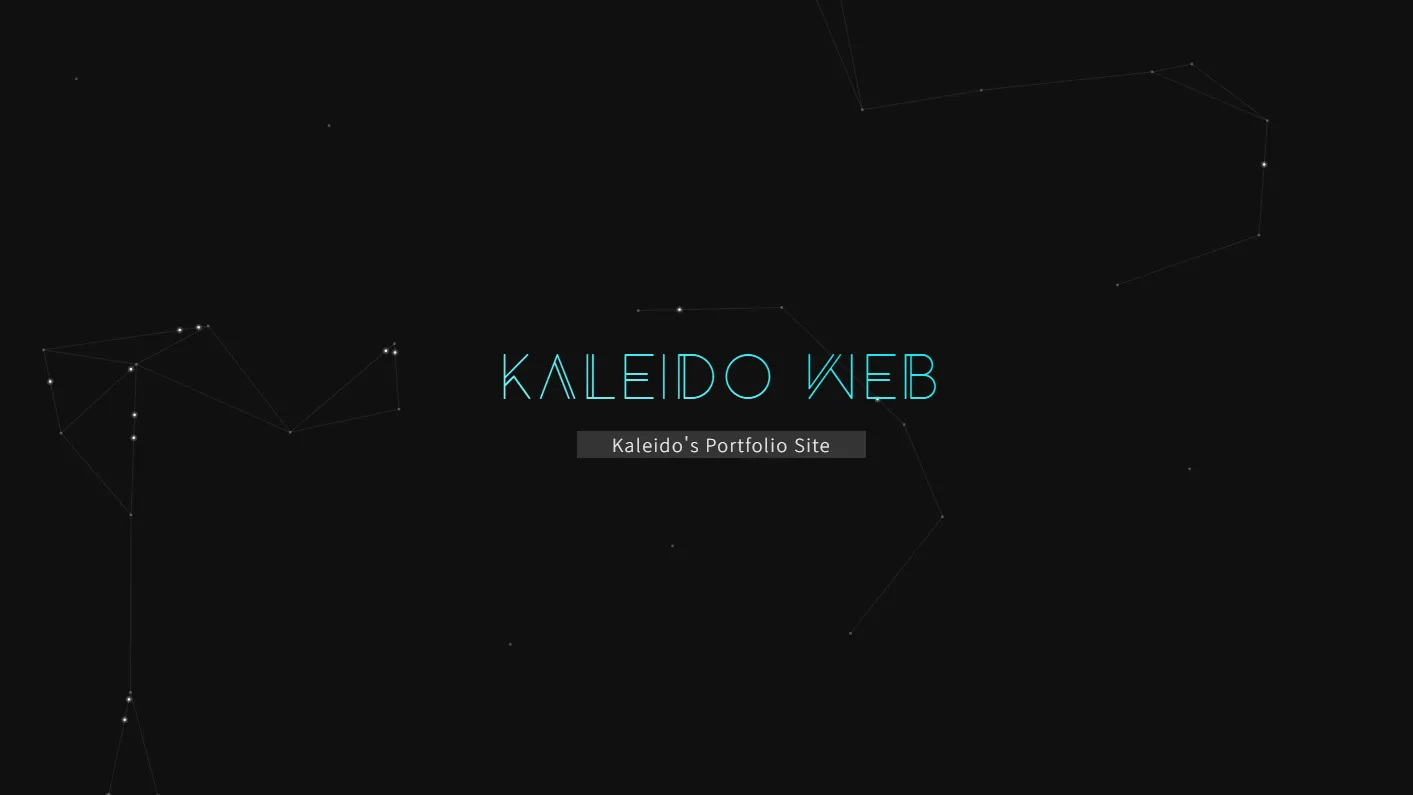
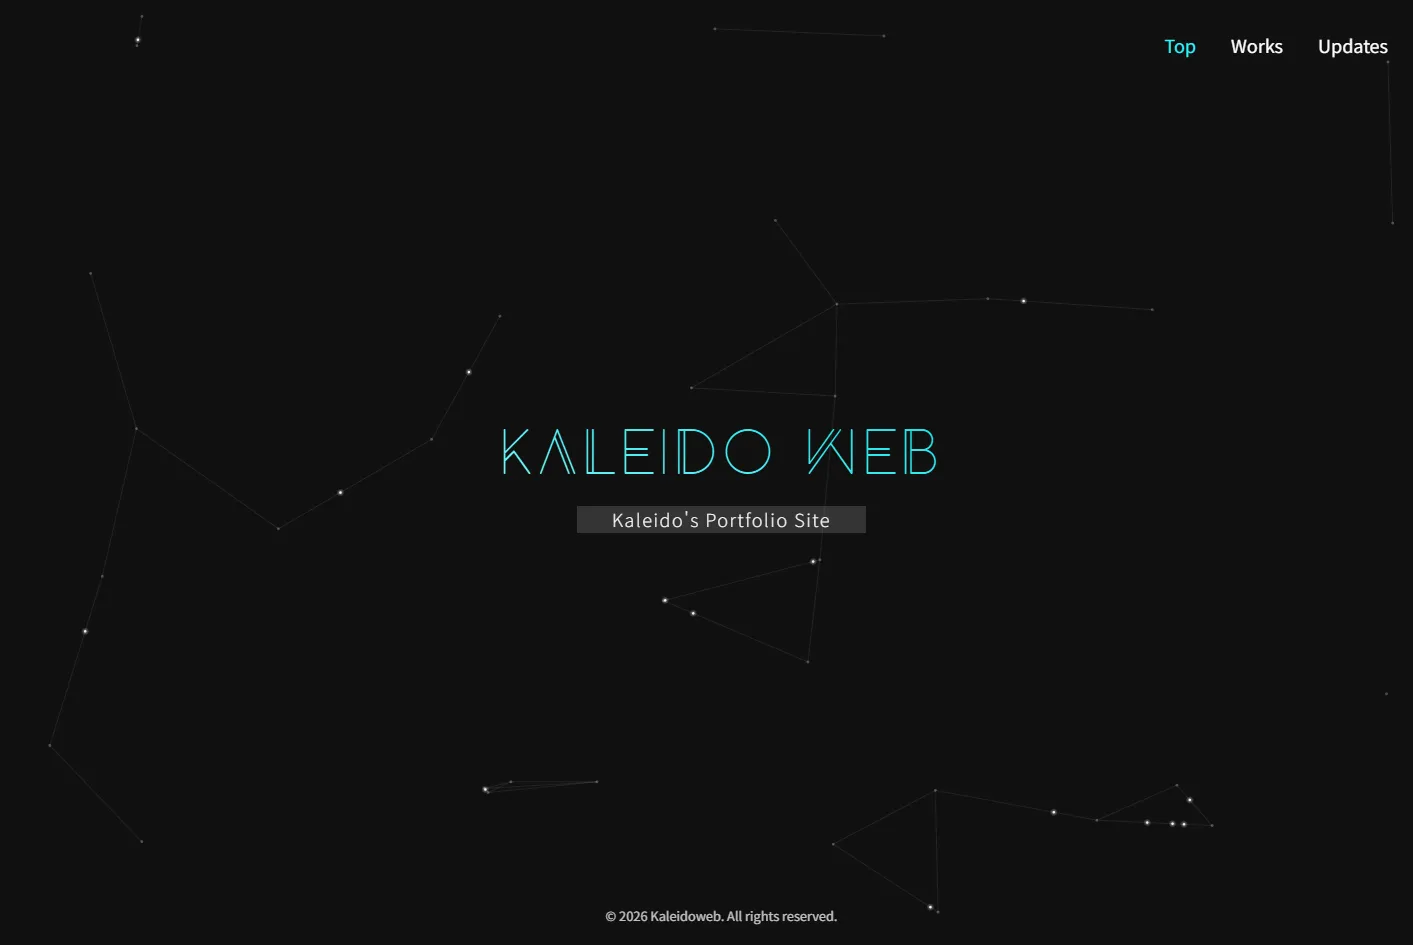
Worksの追加

diff --git a/css/works-sub.css b/css/works-sub.css
@@ -14,6 +14,10 @@ section {
     max-width: 1000px;
 }
 
+.page-header {
+    cursor: default;
+}
+
 .work-header {
     display: flex;
     justify-content: space-between;
@@ -35,28 +39,72 @@ section {
 
 .work-meta {
     display: flex;
+    flex-wrap: wrap;
     align-items: center;
-    gap: 15px;
+    gap: 10px 15px;
+    margin: 10px 0 0;
+    cursor: default;
+}
+
+.work-meta-item {
+    display: flex;
+    align-items: center;
+}
+
+.work-meta dt {
+    position: absolute;
+    width: 1px;
+    height: 1px;
+    overflow: hidden;
+    clip-path: inset(50%);
+    white-space: nowrap;
 }
 
 .work-meta .tech-stack, .work-meta .work-role {
     display: inline-block;
     font-weight: 200;
     color: var(--color-text);
-    margin-top: 10px;
+    margin: 0;
     padding: 0 15px 1px 15px;
     background-color: rgba(255, 255, 255, 0.15);
+}
+
+.work-meta dd {
+    position: relative;
+}
+
+.work-meta dd::after {
+    content: attr(data-label);
+    content: attr(data-label) / '';
+    position: absolute;
+    top: 100%;
+    left: 0;
+    margin-top: 6px;
+    padding: 2px 8px;
+    font-size: 11px;
+    letter-spacing: 0.15em;
+    color: var(--color-primary);
+    background: transparent;
+    white-space: nowrap;
+    opacity: 0;
+    pointer-events: none;
+    transition: opacity 0.6s ease;
+}
+
+.work-meta dd:hover::after {
+    opacity: 1;
 }
 
 .work-description {
     font-weight: 200;
     color: var(--color-text);
     margin-top: 60px;
+    cursor: default;
 }
 
 .work-description a {
-    /* text-decoration: none; */
     color: var(--color-primary);
+    cursor: pointer;
 }
 
 .work-description p {
@@ -96,6 +144,7 @@ section {
     margin: 0 0 20px 8px;
     padding-left: 12px;
     border-left: 4px solid var(--color-text-muted);
+    cursor: default;
 }
 
 .work-images {
@@ -106,7 +155,8 @@ section {
 }
 
 .work-window {
-    margin: 0;   /* figure の初期余白を消す */
+    margin: 0;
+    cursor: default;
 }
 
 .upper-frame {

diff --git a/css/works.css b/css/works.css
@@ -14,6 +14,7 @@ main {
     letter-spacing: 8px;
     color: var(--color-text);
     margin: 0 auto 120px;
+    cursor: default;
 }
 
 .works {
@@ -25,6 +26,7 @@ main {
 
 .work-item {
     margin: 0;
+    cursor: default;
 }
 
 .work-number {
@@ -57,7 +59,7 @@ main {
 
 .work-item img:hover {
     opacity: 0.9;
-    transform: scale(1.02);
+    transform: scale(1.03);
 }
 
 .work-title {

diff --git a/css/index.css b/css/index.css
@@ -21,6 +21,7 @@ main {
 	background: linear-gradient(15deg,rgb(123, 242, 247) 0%, rgba(9, 229, 236, 1) 100%);
 	-webkit-background-clip: text;
 	-webkit-text-fill-color: transparent;
+    cursor: default;
 }
 
 .hero-subtitle {
@@ -33,4 +34,5 @@ main {
     letter-spacing: 1.6px;
     background-color: rgba(255, 255, 255, 0.15);
     color: var(--color-text);
+    cursor: default;
 }

diff --git a/css/updates.css b/css/updates.css
@@ -14,6 +14,7 @@ main {
     letter-spacing: 8px;
     color: var(--color-text);
     margin: 0 auto 120px;
+    cursor: default;
 }
 
 .timeline {
@@ -23,6 +24,7 @@ main {
     --line-x: 80px;   /* 線の横位置。他の部品もこれを基準 */
     color: var(--color-text);
     margin: 0 auto;
+    cursor: default;
 }
 
 .timeline::before {

diff --git a/css/common.css b/css/common.css
@@ -81,4 +81,5 @@ footer .copyright {
     font-size: 0.8rem;
     color: var(--color-text-muted);
     margin: 0;
+    cursor: default;
 }

diff --git a/works/_template.php b/works/_template.php
@@ -15,19 +15,24 @@ $pageCss = 'works-sub.css';
             <div class="page-header">
                 <div class="work-header">
                     <h1>〇〇（作品名）</h1>
-                    <span class="work-period">YYYY.MM - Present</span><!-- 終了している場合は YYYY.MM - YYYY.MM -->
+                    <span class="work-period">YYYY.MM - Present</span>
                 </div>
-                <div class="work-meta">
-                    <div class="work-role">Design, Development</div>
-                    <div class="tech-stack">HTML, CSS, JavaScript</div>
-                </div>
+                <dl class="work-meta">
+                    <div class="work-meta-item">
+                        <dt>Role</dt>
+                        <dd class="work-role" data-label="└ Role">Design, Development</dd>
+                    </div>
+                    <div class="work-meta-item">
+                        <dt>Stack</dt>
+                        <dd class="tech-stack" data-label="└ Tech Stack">HTML, CSS, JavaScript</dd>
+                    </div>
+                </dl>
             </div>
             <div class="work-description">
                 <p>〇〇（作品の概要）</p>
                 <p>〇〇（担当範囲・実装した機能）</p>
                 <p>〇〇（補足・現在の状況など）</p>
             </div>
-            <!-- リンクが無い場合は該当の <a> を削除。両方無ければ div ごと削除 -->
             <div class="work-link">
                 <a href="https://〇〇" target="_blank" rel="noopener">View Live ↗</a>
                 <a href="https://github.com/〇〇" target="_blank" rel="noopener">Source Code ↗</a>
@@ -36,7 +41,7 @@ $pageCss = 'works-sub.css';
         <section>
             <h2 class="preview-heading">Preview</h2>
             <div class="work-images">
-                <!-- ↓ スクリーンショット1枚分。必要な枚数だけ複製する -->
+                <!-- １枚目 -->
                 <figure class="work-window">
                     <figcaption class="upper-frame">
                         <span class="window-tab">〇〇 Page</span>
@@ -44,7 +49,6 @@ $pageCss = 'works-sub.css';
                     </figcaption>
                     <img src="<?= $base ?>images/works/〇〇/.webp" alt="〇〇画面" class="work-screenshot">
                 </figure>
-                <!-- ↑ ここまで -->
             </div>
         </section>
     </main>

diff --git a/works/himenoyu.php b/works/himenoyu.php
@@ -15,22 +15,26 @@ $pageCss = 'works-sub.css';
             <div class="page-header">
                 <div class="work-header">
                     <h1>比咩の湯 - 白山市</h1>
-                    <span class="work-period">2026.03</span><!-- 終了している場合は YYYY.MM - YYYY.MM -->
+                    <span class="work-period">2026.03</span>
                 </div>
-                <div class="work-meta">
-                    <div class="work-role">Partial Renewal</div>
-                    <div class="tech-stack">HTML, CSS, WordPress</div>
-                </div>
+                <dl class="work-meta">
+                    <div class="work-meta-item">
+                        <dt>Role</dt>
+                        <dd class="work-role" data-label="└ Role">Site Update</dd>
+                    </div>
+                    <div class="work-meta-item">
+                        <dt>Stack</dt>
+                        <dd class="tech-stack" data-label="└ Tech Stack">HTML, CSS, WordPress</dd>
+                    </div>
+                </dl>
             </div>
             <div class="work-description">
-                <p>〇〇（作品の概要）</p>
-                <p>〇〇（担当範囲・実装した機能）</p>
-                <p>〇〇（補足・現在の状況など）</p>
+                <p>石川県の日帰り入浴施設「比咩の湯」が2026年4月にリニューアルオープンするのに伴い、ホームページの内容更新を担当。</p>
+                <p>既存のUIやデザインは大きく変更せず、営業時間の変更対応や、新たに営業を再開する「お風呂」「お食事等」の紹介セクションを新規追加。</p>
             </div>
             <!-- リンクが無い場合は該当の <a> を削除。両方無ければ div ごと削除 -->
             <div class="work-link">
-                <a href="https://〇〇" target="_blank" rel="noopener">View Live ↗</a>
-                <a href="https://github.com/〇〇" target="_blank" rel="noopener">Source Code ↗</a>
+                <a href="https://himenoyu.jp/" target="_blank" rel="noopener">View Live ↗</a>
             </div>
         </section>
         <section>

diff --git a/works.php b/works.php
@@ -21,14 +21,14 @@ function work_number($n) {
             <!-- No.1 -->
             <figure class="work-item">
                 <span class="work-number"><?= work_number(1) ?></span>
-                <a href="./works/kaleidoweb"><img src="./images/works/kaleidoweb.webp" alt="KaleidoWeb"></a>
+                <a href="./works/kaleidoweb"><img src="./images/works/kaleidoweb.png" alt="KaleidoWeb"></a>
                 <div class="work-title">Kaleido Web</div>
             </figure>
             <!-- No.2 -->
             <figure class="work-item">
                 <span class="work-number"><?= work_number(2) ?></span>
                 <a href="./works/oxquiz"><img src="./images/works/oxquiz.webp" alt="OXquiz"></a>
-                <div class="work-title">よくある間違い ○×クイズ</div>
+                <div class="work-title">よくある間違い〇&#10005;クイズ</div>
             </figure>
             <!-- No.3 -->
             <figure class="work-item">
@@ -41,6 +41,12 @@ function work_number($n) {
                 <span class="work-number"><?= work_number(4) ?></span>
                 <a href="./works/himenoyu"><img src="./images/works/himenoyu.webp" alt="比咩の湯"></a>
                 <div class="work-title">比咩の湯 - 白山市</div>
+            </figure>
+            <!-- No.5 2024年7月 -->
+            <figure class="work-item">
+                <span class="work-number"><?= work_number(5) ?></span>
+                <a href="./works/himenoyu"><img src="./images/no-image.webp" alt="太陽系"></a>
+                <div class="work-title"><span style="font-style: italic;">r=a&theta;</span> &#9472; Solar System</div>
             </figure>
         </section>
     </main>

diff --git a/works/oxquiz.php b/works/oxquiz.php
@@ -14,13 +14,19 @@ $pageCss = 'works-sub.css';
         <section>
             <div class="page-header">
                 <div class="work-header">
-                    <h1>よくある間違い ○×クイズ</h1>
+                    <h1>よくある間違い〇&#10005;クイズ</h1>
                     <span class="work-period">2024.06 - Present</span>
                 </div>
-                <div class="work-meta">
-                    <div class="work-role">Design, Development</div>
-                    <div class="tech-stack">HTML, CSS, JavaScript, PHP, MySQL</div>
-                </div>
+                <dl class="work-meta">
+                    <div class="work-meta-item">
+                        <dt>Role</dt>
+                        <dd class="work-role" data-label="└ Role">Design, Development</dd>
+                    </div>
+                    <div class="work-meta-item">
+                        <dt>Stack</dt>
+                        <dd class="tech-stack" data-label="└ Tech Stack">HTML, CSS, JavaScript, PHP, MySQL</dd>
+                    </div>
+                </dl>
             </div>
             <div class="work-description">
                 <p>高校～大学数学でつまずきやすい典型的な誤答をテーマにした、選択式のクイズWebアプリケーション。<br>金沢工業大学 数理工教育研究センターの学生スタッフ業務として開発。</p>

diff --git a/works/kiten-hp.php b/works/kiten-hp.php
@@ -17,10 +17,16 @@ $pageCss = 'works-sub.css';
                     <h1>KIT eSports Project</h1>
                     <span class="work-period">2025.04 - Present</span>
                 </div>
-                <div class="work-meta">
-                    <div class="work-role">Design, Development, Content Update</div>
-                    <div class="tech-stack">HTML, CSS, JavaScript, PHP</div>
-                </div>
+                <dl class="work-meta">
+                    <div class="work-meta-item">
+                        <dt>Role</dt>
+                        <dd class="work-role" data-label="└ Role">Design, Development, Content Update</dd>
+                    </div>
+                    <div class="work-meta-item">
+                        <dt>Stack</dt>
+                        <dd class="tech-stack" data-label="└ Tech Stack">HTML, CSS, JavaScript, PHP</dd>
+                    </div>
+                </dl>
             </div>
             <div class="work-description">
                 <p>金沢工業大学公式の課外活動団体「KIT eSports Project」の公式ホームページを制作。</p>

diff --git a/works/kaleidoweb.php b/works/kaleidoweb.php
@@ -17,10 +17,16 @@ $pageCss = 'works-sub.css';
                     <h1>Kaleido Web</h1>
                     <span class="work-period">2026.09 - Present</span>
                 </div>
-                <div class="work-meta">
-                    <div class="work-role">Design, Development</div>
-                    <div class="tech-stack">HTML, CSS, JavaScript, PHP</div>
-                </div>
+                <dl class="work-meta">
+                    <div class="work-meta-item">
+                        <dt>Role</dt>
+                        <dd class="work-role" data-label="└ Role">Design, Development</dd>
+                    </div>
+                    <div class="work-meta-item">
+                        <dt>Stack</dt>
+                        <dd class="tech-stack" data-label="└ Tech Stack">HTML, CSS, JavaScript, PHP</dd>
+                    </div>
+                </dl>
             </div>
             <div class="work-description">
                 <p>本サイト。Kaleido（カレイド）のポートフォリオサイト。</p>
